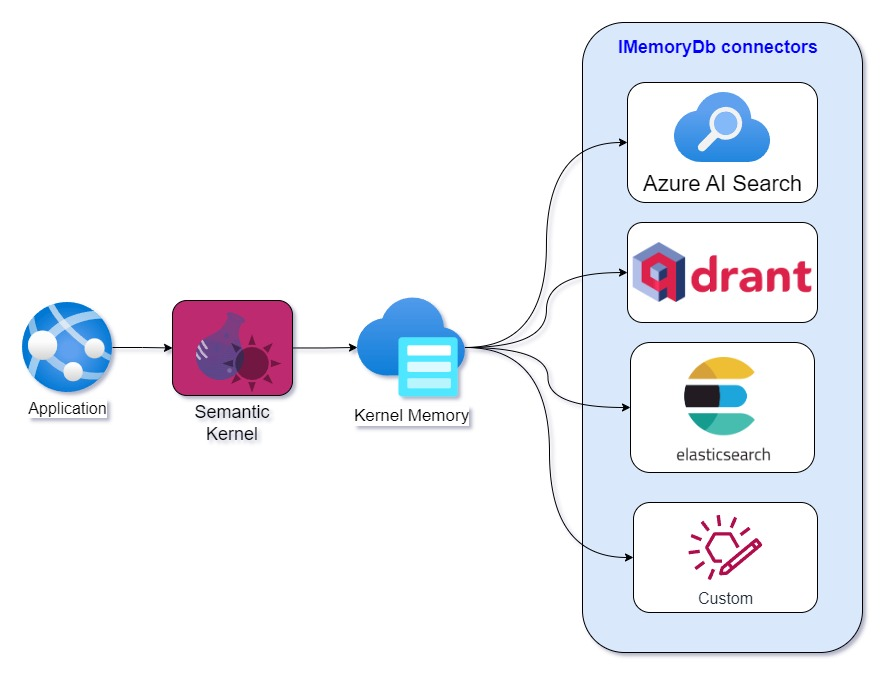
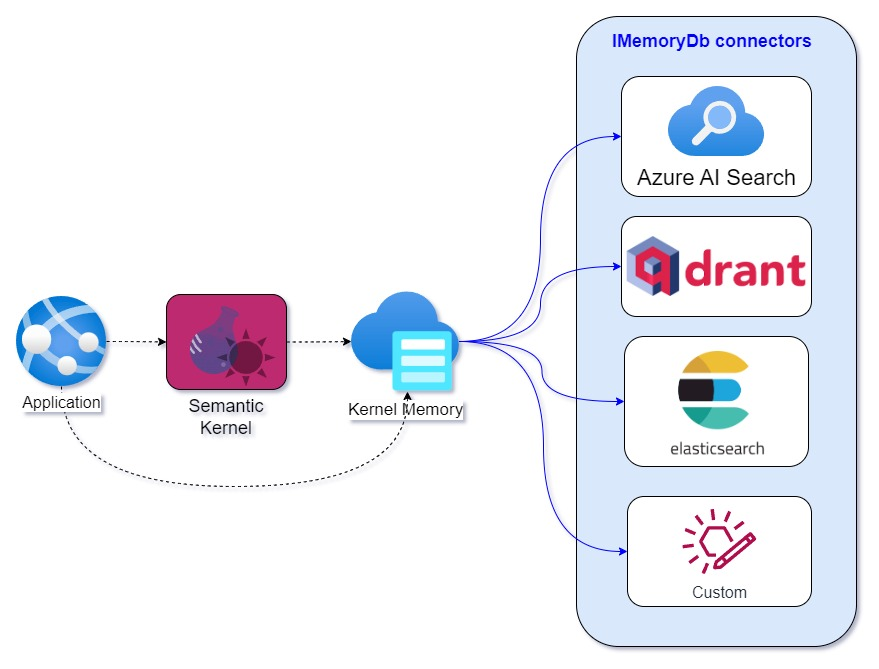
Decent state.

Changed region(s): [[0.3993, 0.0, 0.9829, 0.9865], [0.0, 0.4185, 0.3993, 0.6577]]

diff --git a/tests/UnitTests/ServerlessTests.cs b/tests/UnitTests/ServerlessTests.cs
@@ -1,18 +1,19 @@
 // Copyright (c) Free Mind Labs, Inc. All rights reserved.
 
+using FreeMindLabs.KernelMemory.Elasticsearch;
 using Microsoft.Extensions.DependencyInjection;
 using Microsoft.KernelMemory;
 using Xunit;
 using Xunit.Abstractions;
 
-namespace UnitTests.Serverless;
+namespace UnitTests;
 
-public class ServerlessTest
+public class ServerlessTests
 {
     private readonly ITestOutputHelper _output;
     private readonly IServiceProvider _services;
 
-    public ServerlessTest(ITestOutputHelper output, IServiceProvider services)
+    public ServerlessTests(ITestOutputHelper output, IServiceProvider services)
     {
         this._output = output ?? throw new ArgumentNullException(nameof(output));
         this._services = services ?? throw new ArgumentNullException(nameof(services));
@@ -30,31 +31,34 @@ public class ServerlessTest
         this._output.WriteLine($"Ensured default index is deleted.");
 
         // Proceeds
-        var docId = await memory.ImportDocumentAsync("file1-Wikipedia-Carbon.txt", documentId: "doc001");
+        var docId = await memory.ImportDocumentAsync("Data/file1-Wikipedia-Carbon.txt", documentId: "doc001").ConfigureAwait(false);
         this._output.WriteLine($"Indexed {docId}");
 
         docId = await memory.ImportDocumentAsync(new Document("doc002")
-            .AddFiles(new[] { "file2-Wikipedia-Moon.txt", "file3-lorem-ipsum.docx", "file4-SK-Readme.pdf" })
-            .AddTag("user", "Blake"));
+            .AddFiles(new[] { "Data/file2-Wikipedia-Moon.txt", "Data/file3-lorem-ipsum.docx", "Data/file4-SK-Readme.pdf" })
+            .AddTag("user", "Blake"))
+            .ConfigureAwait(false);
+
         this._output.WriteLine($"Indexed {docId}");
 
         docId = await memory.ImportDocumentAsync(new Document("doc003")
-            .AddFile("file5-NASA-news.pdf")
+            .AddFile("Data/file5-NASA-news.pdf")
             .AddTag("user", "Taylor")
             .AddTag("collection", "meetings")
             .AddTag("collection", "NASA")
             .AddTag("collection", "space")
-            .AddTag("type", "news"));
+            .AddTag("type", "news"))
+            .ConfigureAwait(false);
 
         this._output.WriteLine($"Indexed {docId}");
 
-        await Task.Delay(2000, CancellationToken.None); // TODO: remove. Without this the data might not be ready for read...
+        await Task.Delay(2000, CancellationToken.None).ConfigureAwait(false); // TODO: remove. Without this the data might not be ready for read...
 
         // Question without filters
         var question = "What's E = m*c^2?";
         this._output.WriteLine($"Question: {question}");
 
-        var answer = await memory.AskAsync(question);
+        var answer = await memory.AskAsync(question).ConfigureAwait(false);
         this._output.WriteLine($"\nAnswer: {answer.Result}");
 
         foreach (var x in answer.RelevantSources)
@@ -68,7 +72,7 @@ public class ServerlessTest
         question = "What's Semantic Kernel?";
         this._output.WriteLine($"Question: {question}");
 
-        answer = await memory.AskAsync(question);
+        answer = await memory.AskAsync(question).ConfigureAwait(false);
         this._output.WriteLine($"\nAnswer: {answer.Result}\n\n  Sources:\n");
 
         foreach (var x in answer.RelevantSources)
@@ -113,6 +117,6 @@ public class ServerlessTest
             .WithOpenAIDefaults("api key")
             .Build();
 
-        Console.WriteLine("Test complete");
+        this._output.WriteLine("Test complete");
     }
 }

diff --git a/src/ElasticsearchMemoryStorage/ServiceCollectionExtensions.cs b/src/ElasticsearchMemoryStorage/ServiceCollectionExtensions.cs
@@ -1,5 +1,8 @@
 // Copyright (c) Free Mind Labs, Inc. All rights reserved.
 
+using System;
+using Elastic.Clients.Elasticsearch;
+using Microsoft.Extensions.Configuration;
 using Microsoft.Extensions.DependencyInjection;
 using Microsoft.KernelMemory.MemoryStorage;
 
@@ -14,31 +17,33 @@ public static partial class ServiceCollectionExtensions
     /// Inject Elasticsearch as the default implementation of IVectorDb
     /// </summary>
     /// <param name="services">Service collection</param>
-    /// <param name="config">Elasticsearch configuration</param>
-    public static IServiceCollection AddElasticsearchAsVectorDb(this IServiceCollection services, ElasticsearchConfig config)
+    /// <param name="configuration">Configuration</param>"
+    public static IServiceCollection AddElasticsearchAsVectorDb(this IServiceCollection services, IConfiguration configuration)
     {
-        return services
-            .AddSingleton<ElasticsearchConfig>(config)
-            .AddSingleton<IMemoryDb, ElasticsearchMemory>();
+        configuration = configuration ?? throw new ArgumentNullException(nameof(configuration));
+
+        // Reads the configuration from IConfiguration and validates it.
+        var esConfig = configuration
+            .GetRequiredSection(ElasticsearchConfig.DefaultSettingsSection)
+            .Get<ElasticsearchConfig>();
+
+        return AddElasticsearchAsVectorDb(services, esConfig!);
     }
 
     /// <summary>
     /// Inject Elasticsearch as the default implementation of IVectorDb
     /// </summary>
     /// <param name="services">Service collection</param>
-    /// <param name="certificateFingerPrint">Elasticsearch certificate fingerprint</param>
-    /// <param name="endpoint">Elasticsearch endpoint</param>
-    /// <param name="password">Elasticsearch password</param>
-    /// <param name="userName">Elasticsearch username</param>
+    /// <param name="esConfig">Elasticsearch configuration</param>
     public static IServiceCollection AddElasticsearchAsVectorDb(this IServiceCollection services,
-        string endpoint, string userName, string password, string certificateFingerPrint)
+        ElasticsearchConfig esConfig)
     {
-        var config = new ElasticsearchConfig(
-            endpoint: endpoint,
-            userName: userName,
-            password: password,
-            certificateFingerPrint: certificateFingerPrint);
+        esConfig = esConfig ?? throw new ArgumentNullException(nameof(esConfig));
+        esConfig.Validate(); // This checks everything is in order.
 
-        return services.AddElasticsearchAsVectorDb(config);
+        return services
+            .AddSingleton<ElasticsearchConfig>(esConfig)
+            .AddSingleton<ElasticsearchClientSettings>(x => esConfig.ToElasticsearchClientSettings())
+            .AddSingleton<IMemoryDb, ElasticsearchMemory>();
     }
 }

diff --git a/tests/UnitTests/IKernelMemoryTests.cs b/tests/UnitTests/IKernelMemoryTests.cs
@@ -4,17 +4,15 @@ using Xunit;
 using Xunit.Abstractions;
 using Xunit.DependencyInjection;
 
-namespace UnitTests.MemoryStorage;
+namespace UnitTests;
 
-public class MemoryStorageTests
+public class IKernelMemoryTests
 {
     private readonly ITestOutputHelper _output;
-    private readonly IServiceProvider _services;
 
-    public MemoryStorageTests(ITestOutputHelper output, IServiceProvider services)
+    public IKernelMemoryTests(ITestOutputHelper output, IServiceProvider services)
     {
         this._output = output ?? throw new ArgumentNullException(nameof(output));
-        this._services = services ?? throw new ArgumentNullException(nameof(services));
     }
 
     [Theory]
@@ -34,7 +32,7 @@ public class MemoryStorageTests
 
         // Imports the document into the default index
         var docId = await memory.ImportDocumentAsync(
-            filePath: "file1-Wikipedia-Carbon.txt",
+            filePath: "Data/file1-Wikipedia-Carbon.txt",
             documentId: "doc001",
             tags: null,
             index: indexName,
@@ -42,7 +40,7 @@ public class MemoryStorageTests
             cancellationToken: cancellationToken).ConfigureAwait(false);
         this._output.WriteLine($"Indexed {docId}.");
 
-        await Task.Delay(2000, CancellationToken.None); // TODO: remove. Without this the data might not be ready for read...
+        await Task.Delay(2000, CancellationToken.None).ConfigureAwait(false); // TODO: remove. Without this the data might not be ready for read...
 
         // Asks a question on the data we just inserted
         var question = "What can carbon bond to?";
@@ -75,9 +73,9 @@ public class MemoryStorageTests
         this._output.WriteLine($"Ensured default index is deleted.");
 
         // Uploads the documents
-        var files = Directory.GetFiles(".", "*.txt").ToList();
-        files.AddRange(Directory.GetFiles(".", "*.docx"));
-        files.AddRange(Directory.GetFiles(".", "*.pdf"));
+        var files = Directory.GetFiles("Data", "*.txt").ToList();
+        files.AddRange(Directory.GetFiles("Data", "*.docx"));
+        files.AddRange(Directory.GetFiles("Data", "*.pdf"));
 
         foreach (var file in files)
         {
@@ -120,3 +118,4 @@ public class MemoryStorageTests
         //Assert.NotEqual("INFO NOT FOUND", answer.Result);
     }
 }
+

diff --git a/src/ElasticsearchMemoryStorage/KernelMemoryBuilderExtensions.cs b/src/ElasticsearchMemoryStorage/KernelMemoryBuilderExtensions.cs
@@ -1,31 +1,17 @@
 // Copyright (c) Free Mind Labs, Inc. All rights reserved.
 
-using FreeMindLabs.KernelMemory.Elasticsearch;
-
-#pragma warning disable IDE0130 // Namespace does not match folder structure
+using Microsoft.KernelMemory;
 
 // It is easier to just extend the Microsoft.KernelMemory namespace rather than
 // forcing developers to include something like FreeMindLabs.KernelMemory.Elasticsearch.
 
-namespace Microsoft.KernelMemory;
-#pragma warning restore IDE0130 // Namespace does not match folder structure
+namespace FreeMindLabs.KernelMemory.Elasticsearch;
 
 /// <summary>
 /// Extensions for KernelMemoryBuilder
 /// </summary>
 public static partial class KernelMemoryBuilderExtensions
 {
-    /// <summary>
-    /// Kernel Memory Builder extension method to add Elasticsearch memory connector.
-    /// </summary>
-    /// <param name="builder">KM builder instance</param>
-    /// <param name="config">Elasticsearch configuration</param>
-    public static IKernelMemoryBuilder WithElasticsearch(this IKernelMemoryBuilder builder, ElasticsearchConfig config)
-    {
-        builder.Services.AddElasticsearchAsVectorDb(config);
-        return builder;
-    }
-
     /// <summary>
     /// Kernel Memory Builder extension method to add Elasticsearch memory connector.
     /// </summary>
@@ -37,11 +23,13 @@ public static partial class KernelMemoryBuilderExtensions
     public static IKernelMemoryBuilder WithElasticsearch(this IKernelMemoryBuilder builder,
         string endpoint, string userName, string password, string certificateFingerPrint)
     {
-        builder.Services.AddElasticsearchAsVectorDb(
+        var cfg = new ElasticsearchConfig(
             endpoint: endpoint,
             userName: userName,
             password: password,
             certificateFingerPrint: certificateFingerPrint);
+
+        builder.Services.AddElasticsearchAsVectorDb(cfg);
         return builder;
     }
 }

diff --git a/tests/UnitTests/Startup.cs b/tests/UnitTests/Startup.cs
@@ -4,8 +4,6 @@ using Microsoft.Extensions.Configuration;
 using Microsoft.Extensions.DependencyInjection;
 using Microsoft.KernelMemory;
 using System.Reflection;
-using Elastic.Clients.Elasticsearch;
-using Elastic.Transport;
 using FreeMindLabs.KernelMemory.Elasticsearch;
 
 namespace UnitTests;
@@ -29,21 +27,19 @@ public class Startup
 
     public void ConfigureServices(IServiceCollection services)
     {
-        // ElasticsearchClientSettings
-        var esConfig = this._configuration
-            .GetSection(ElasticsearchConfig.DefaultSettingsSection)
-            .Get<ElasticsearchConfig>()
-            .Validate(); // This checks everything is in order.
-
-        services.AddTransient<ElasticsearchClientSettings>(x => esConfig.ToElasticsearchClientSettings());
+        services.AddElasticsearchAsVectorDb(this._configuration);
 
         // Kernel Memory with Elasticsearch
-        services.AddTransient<IKernelMemory>(x => new KernelMemoryBuilder()
-            .WithOpenAIDefaults(this._configuration["OpenAI:ApiKey"] ?? throw new ElasticsearchConfigurationException("OpenAI API Key missing."))
-            // TIP: If we comment the line below we run with in-memory storage.
-            // The tests in <see cref="ServerlessTest"/> should all work.
-            .WithElasticsearch(esConfig)
-            .Build<MemoryServerless>());
+        services.AddTransient<IKernelMemory>(sp =>
+        {
+            IKernelMemoryBuilder b = new KernelMemoryBuilder()
+                .WithOpenAIDefaults(this._configuration["OpenAI:ApiKey"] ?? throw new ArgumentException("OpenAI:ApiKey is required."));
+
+            var memoryServerless = b//.WithElasticsearch(esConfig)
+                                    .Build<MemoryServerless>();
+
+            return memoryServerless;
+        });
 
         // TODO: Uses OpenAI API Key for now. Make more flexible.
     }

diff --git a/tests/UnitTests/IMemoryDbTests.cs b/tests/UnitTests/IMemoryDbTests.cs
@@ -1,0 +1,49 @@
+// Copyright (c) Free Mind Labs, Inc. All rights reserved.
+using Microsoft.Extensions.DependencyInjection;
+using Microsoft.KernelMemory;
+using Microsoft.KernelMemory.MemoryStorage;
+using Xunit;
+using Xunit.Abstractions;
+using Xunit.DependencyInjection;
+
+namespace UnitTests;
+
+public class IMemoryDbTests
+{
+    private readonly ITestOutputHelper _output;
+
+    public IMemoryDbTests(ITestOutputHelper output, IServiceProvider sp, IKernelMemory mem)
+    {
+        this._output = output ?? throw new ArgumentNullException(nameof(output));
+
+        mem = mem ?? throw new ArgumentNullException(nameof(mem));
+        var memDb = sp.GetRequiredService<IMemoryDb>();
+    }
+
+    [Theory]
+    [InlineData("", 1536, false, null)] // default index
+    [InlineData("nondefault", 1536, false, null)]
+    [InlineData("WithUppercase", 1536, true, null)]
+    [InlineData("123numberifrst", 1536, false, null)]
+    public async Task CanDeleteCreateAndDeleteIndicesAsync(string indexName, int vectorSize, bool shouldFail, [FromServices] IMemoryDb memory)
+    {
+        memory = memory ?? throw new ArgumentNullException(nameof(memory));
+
+        try
+        {
+            await memory.DeleteIndexAsync(indexName).ConfigureAwait(false);
+            await memory.CreateIndexAsync(indexName, vectorSize).ConfigureAwait(false);
+        }
+        catch (Exception ex)
+        {
+            if (shouldFail)
+            {
+                this._output.WriteLine($"Expected exception: {ex.Message}");
+                return;
+            }
+
+            throw;
+        }
+    }
+}
+

diff --git a/content/IMemoryDbArticle.md b/content/IMemoryDbArticle.md
@@ -260,16 +260,14 @@ This diagram shows the relationship between Kernel Memory and the IMemoryDb inte
   <img src="images/Connectors.jpg" width="50%" />
 </div>
 
-Kernel Memory can connect to several any databases and storage system if a connector is available.
-
->TODO: should the diagram show Application using KM directly?
+Kernel Memory can connect to any vector database or storage system if an IMemoryDb connector is available.
 
 ## The IMemoryDb interface
 
 The [IMemoryDb](https://github.com/microsoft/kernel-memory/blob/main/service/Abstractions/MemoryStorage/IMemoryDb.cs) interface has seven methods, which can be thought as divided in three groups:
 
 1. Index management
-2. Data manipulation
+2. Data storage
 3. Search
 
 ## Index management
@@ -302,7 +300,7 @@ Here are some possible improvements:
 > TODO: put implementation code for methods here
 > TODO: put code of index mgmt tests here
 
-## Data manipulation
+## Data storage
 
 The next two methods allow to update and delete the information inside indices using the data structure [MemoryRecord](https://github.com/microsoft/kernel-memory/blob/main/service/Abstractions/MemoryStorage/MemoryRecord.cs).
 
